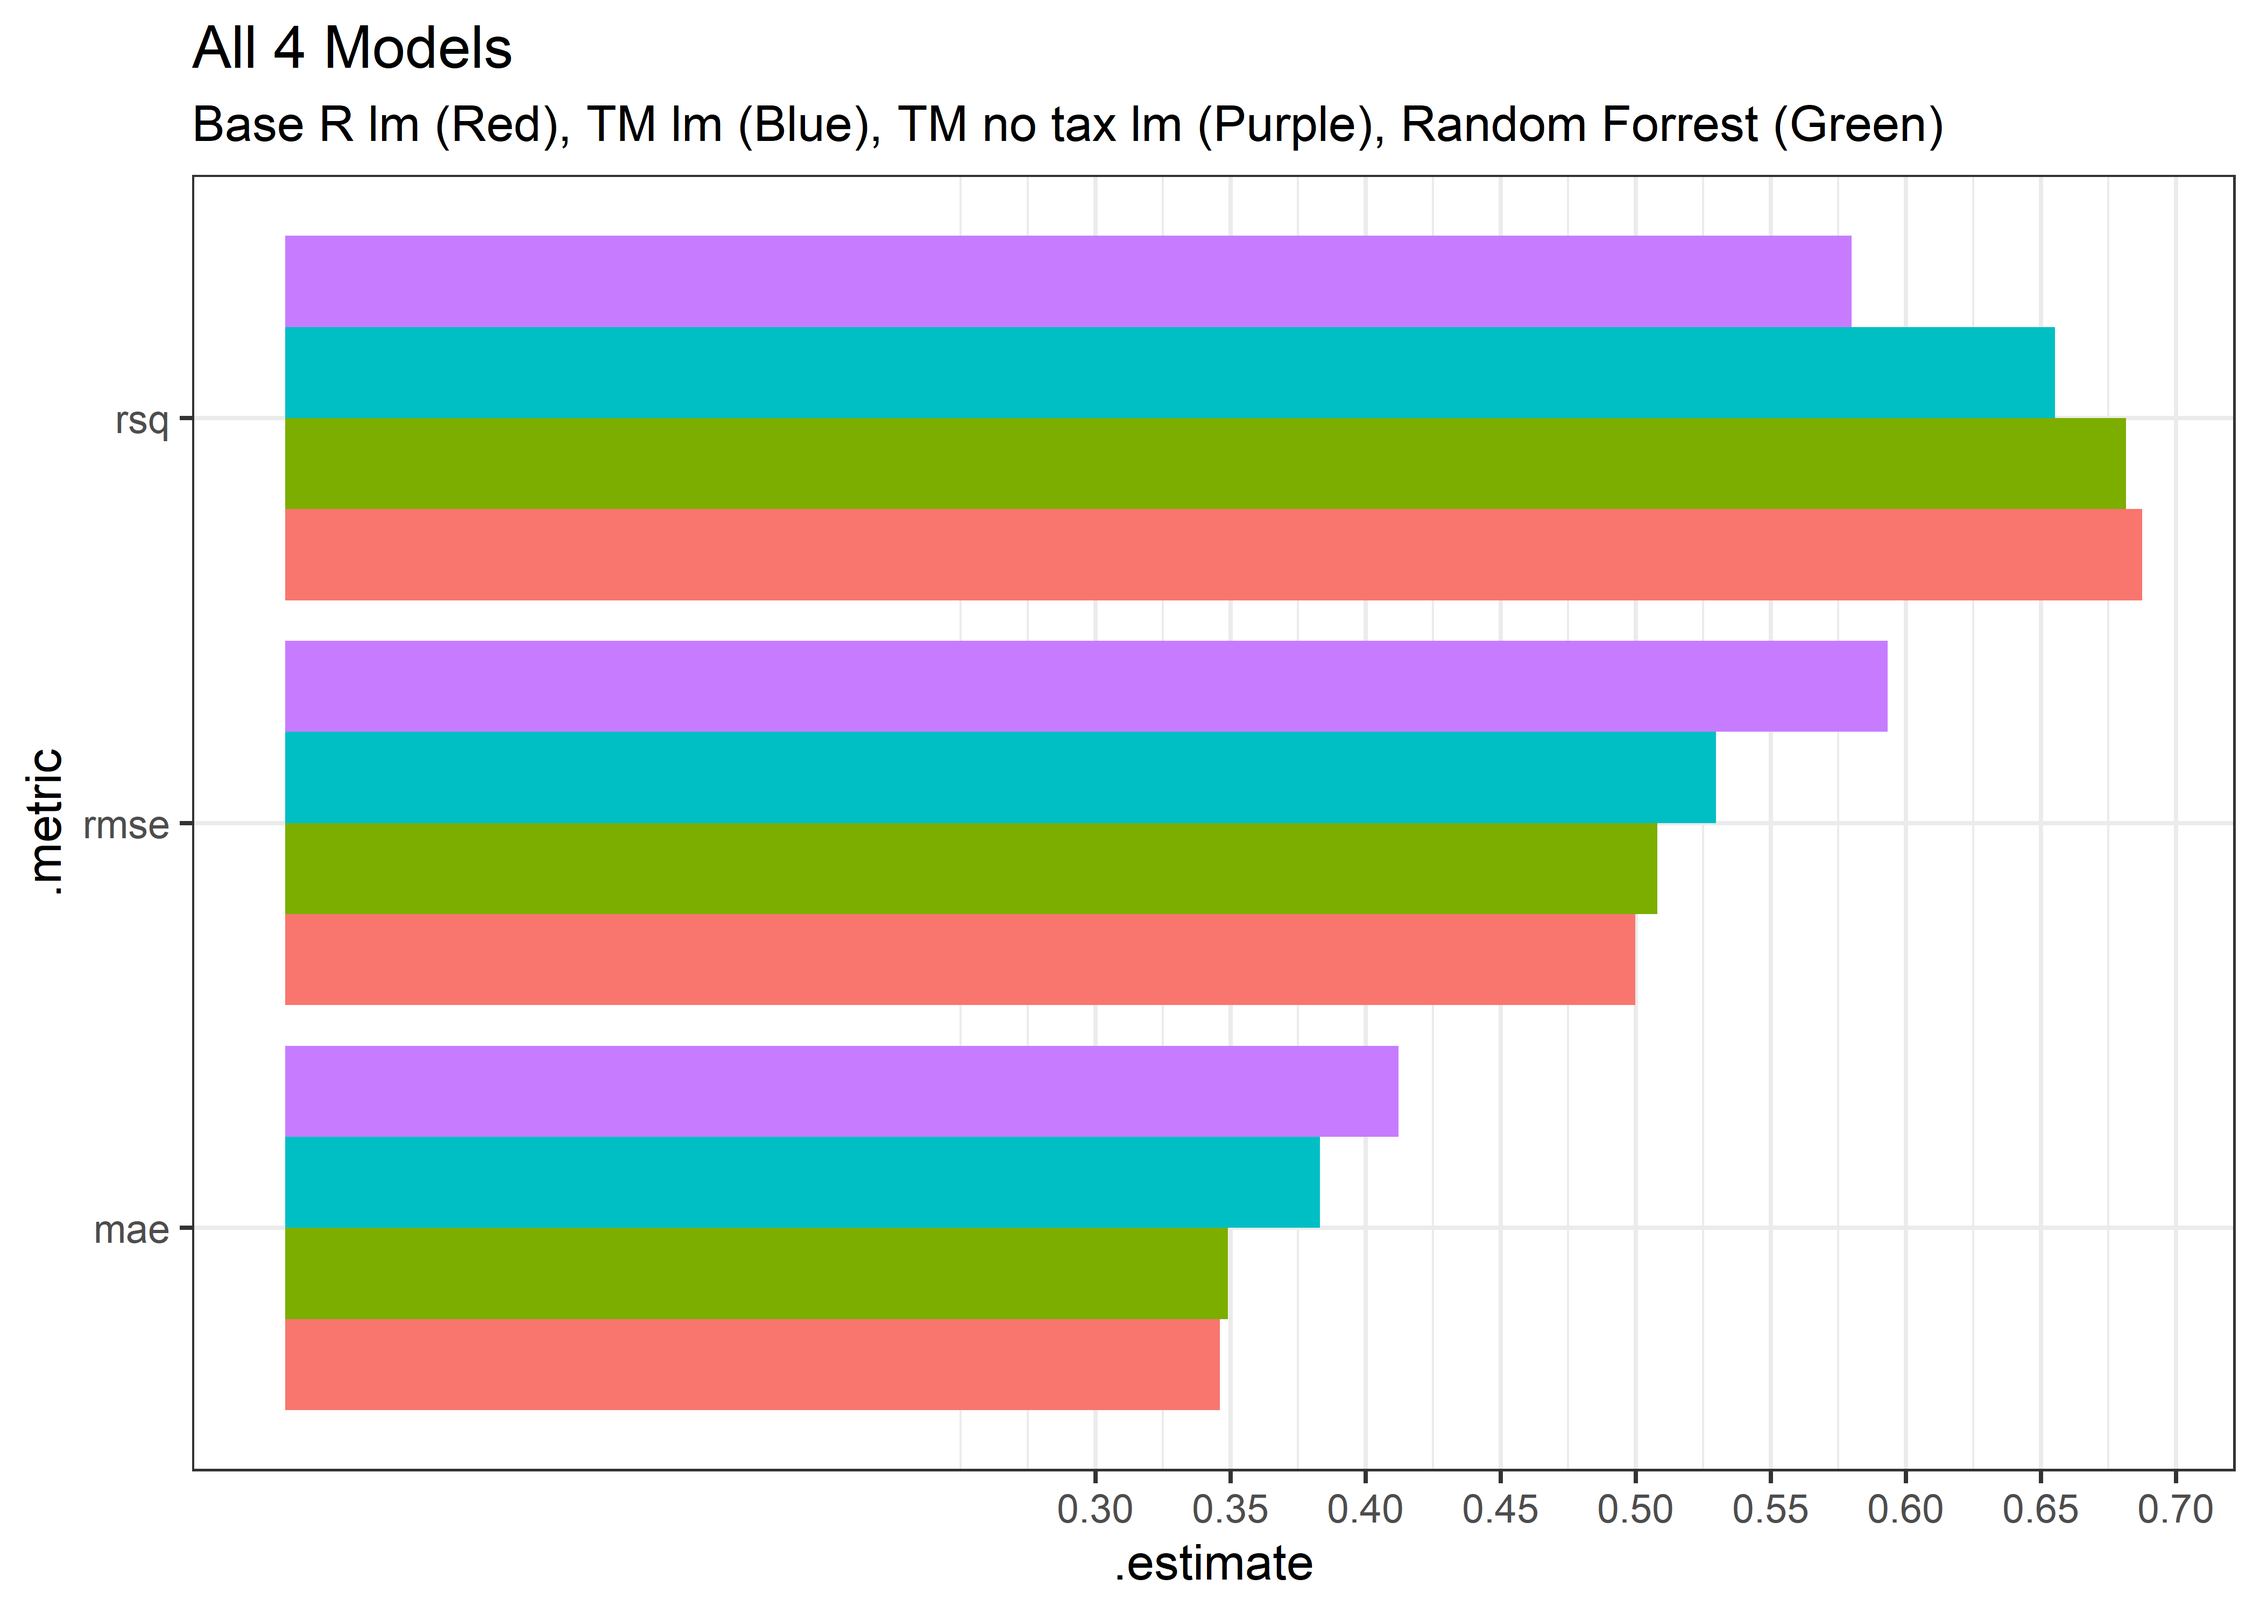
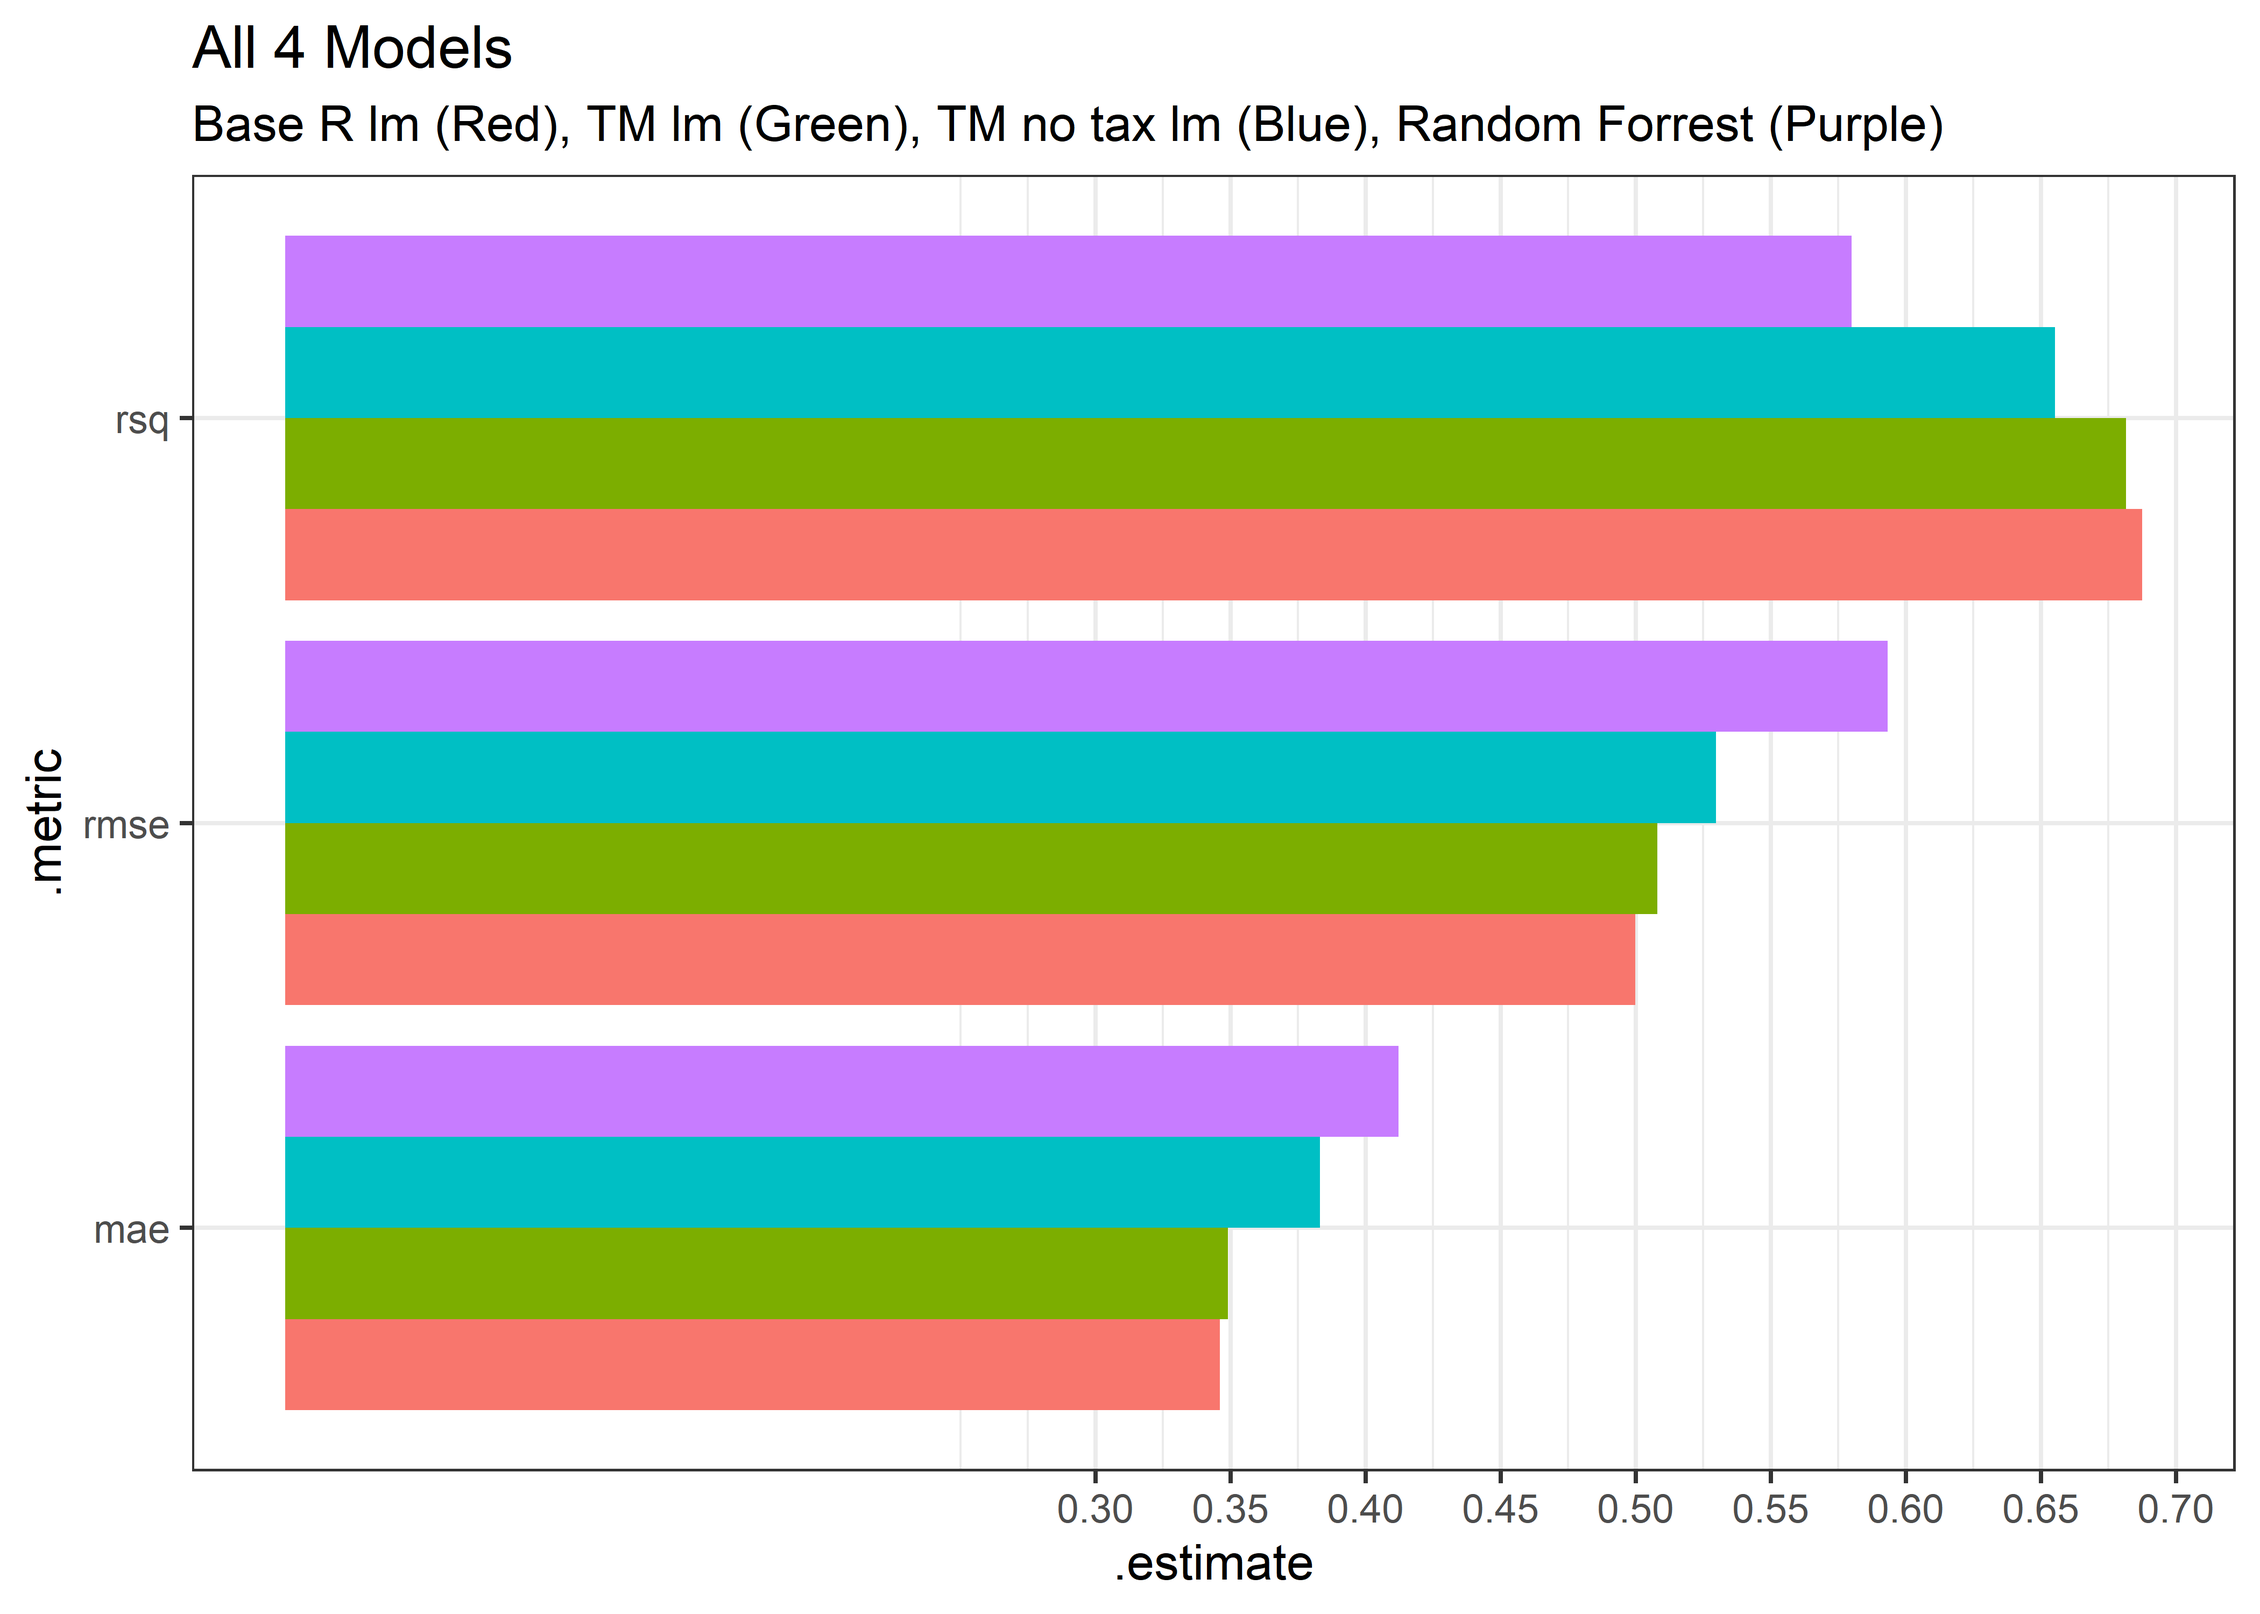
Remote clean up done on github

Changed region(s): [[0.3431, 0.062, 0.8421, 0.093]]

diff --git a/NYC House Prices/NYC-House-Prices.md b/NYC House Prices/NYC-House-Prices.md
@@ -668,7 +668,7 @@ all_metrics_rf %>%
   ggplot(aes(.estimate, .metric, fill = fct_reorder(model, .estimate, max, .desc = TRUE))) +
   geom_col(position = "dodge") + 
   labs(title = "All 4 Models", 
-       subtitle = "Base R lm (Red), TM lm (Blue), TM no tax lm (Purple), Random Forrest (Green)") +
+       subtitle = "Base R lm (Red), TM lm (Green), TM no tax lm (Blue), Random Forrest (Purple)") +
   theme(legend.position = "none") + scale_x_continuous(breaks = seq(0.3,0.7,0.05))
 ```
 
@@ -837,8 +837,9 @@ all_metrics_rf %>%
     mutate(model = "5")) %>% 
   ggplot(aes(.estimate, .metric, fill = fct_reorder(model, .estimate, max, .desc = TRUE))) +
   geom_col(position = "dodge") + 
-  labs(title = "All 4 Models", 
-       subtitle = "Base R lm (Brownish-Yellow), TM lm (Green), TM no tax lm (Blue), Random Forrest (Purple), Gam (Red)") +
+  labs(title = "All 5 Models", 
+       subtitle = "Base R lm (Brownish-Yellow), TM lm (Green), TM no tax lm (Blue), \n
+       Random Forrest (Purple), Gam (Red)") +
   theme(legend.position = "none")
 ```
 
